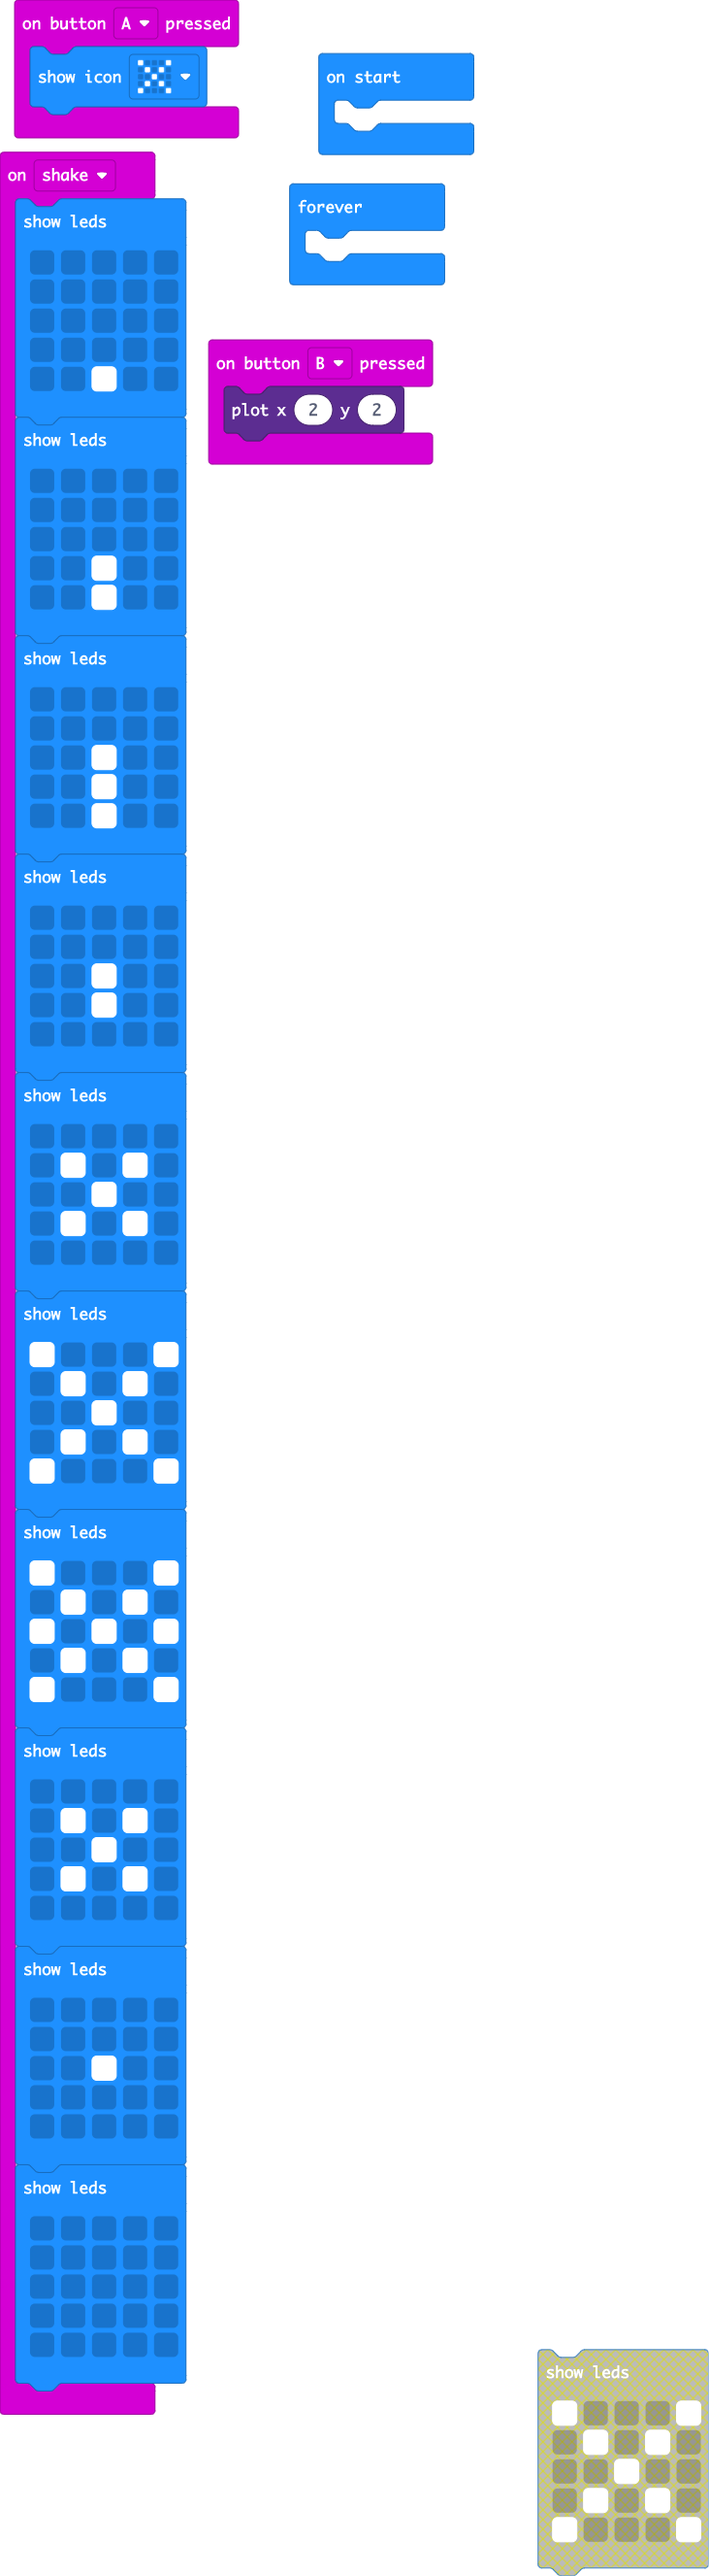
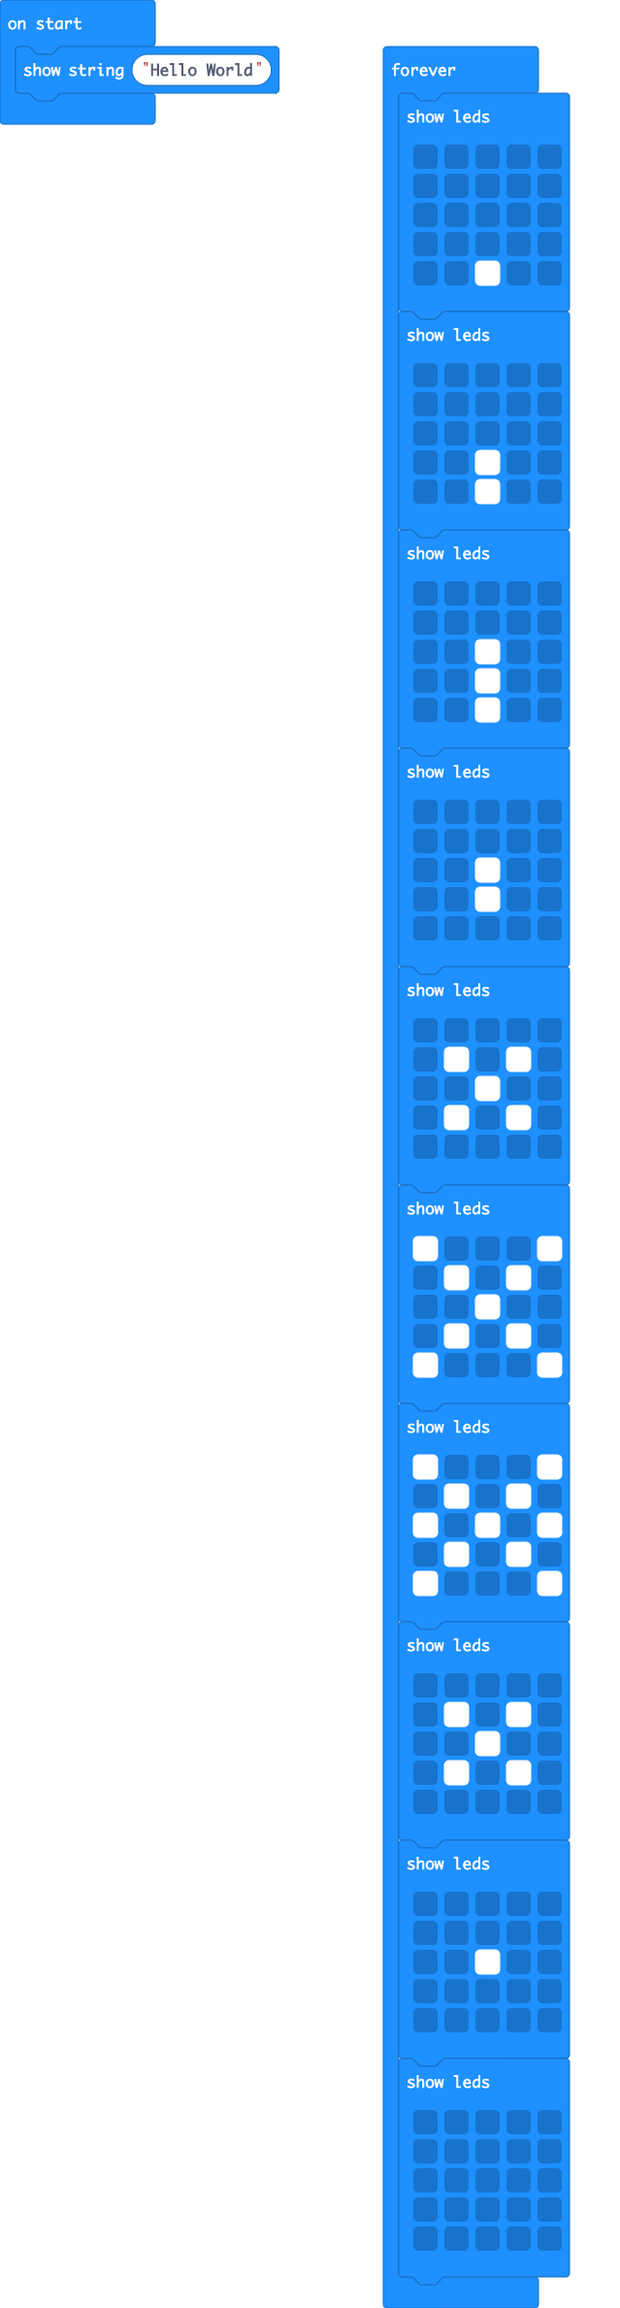
Update pxt.json, main.blocks, main.ts

diff --git a/main.ts b/main.ts
@@ -1,10 +1,5 @@
-input.onButtonPressed(Button.A, function () {
-    basic.showIcon(IconNames.No)
-})
-input.onButtonPressed(Button.B, function () {
-    led.plot(2, 2)
-})
-input.onGesture(Gesture.Shake, function () {
+basic.showString("Hello World")
+basic.forever(function () {
     basic.showLeds(`
         . . . . .
         . . . . .
@@ -75,7 +70,4 @@ input.onGesture(Gesture.Shake, function () {
         . . . . .
         . . . . .
         `)
-})
-basic.forever(function () {
-	
 })
